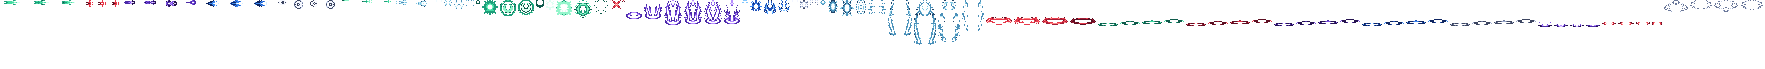
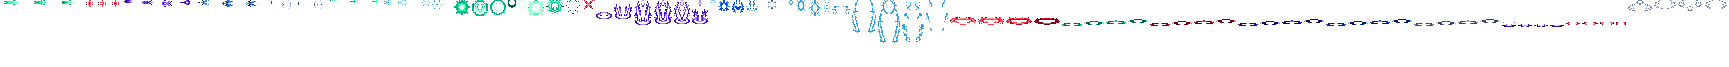
Aphelios's effects made crisper (the user: 「厄斐琉斯的特效 调的清晰点」, picked fewer specks and more contrast over a dense redraw): import_aphelios_fx.py cleans every cell before placing it - loose dim specks of 1-3 squares off, the dim rim round a light (its soft halo) off except on the rings drawn in the ramp

Changed region(s): [[0.0, 0.0, 0.9682, 0.6567], [0.937, 0.0, 0.9994, 0.1791]]

diff --git a/tools/art/import_aphelios_fx.py b/tools/art/import_aphelios_fx.py
@@ -26,6 +26,10 @@ FEET, the rest comes in by a tenth).
 The bullets stay unseen until they pass the muzzle (flight's lead ticks at the attack's projectile speed); their views
 are repeat false (build_aphelios.py), the last frame held a second. Severum's Onslaught bolts and Infernum's splash
 show the attacks' pictures under tags of their own (q_s_bolt, a_inf_s): they fly faster or start at the target.
+Every cell goes through clean() first (the user, 2026-10-20: 「厄斐琉斯的特效 调的清晰点」, picked "fewer specks, more
+contrast" over redrawing them dense): loose dim specks of 1-3 squares off, the dim rim round a light (its soft halo)
+off except on the rings drawn in the ramp's dark steps, pinholes filled, every colour's saturation x1.25 and value
+pushed apart ((v - .45) x 1.3 + .5, the brightest a touch whiter), then the pack's symmetry put back exactly.
 """
 import argparse
 import json
@@ -35,8 +39,11 @@ import re
 import shutil
 import sys
 
+import colorsys
+
 import numpy as np
 from PIL import Image
+from scipy import ndimage
 
 HERE = os.path.dirname(os.path.abspath(__file__))
 ROOT = os.path.dirname(os.path.dirname(HERE))
@@ -158,6 +165,106 @@ FX = {
 BALL = 1
 
 
+N8 = np.ones((3, 3), bool)
+
+
+def lum(c):
+    return c[..., 0] * 0.299 + c[..., 1] * 0.587 + c[..., 2] * 0.114
+
+
+def mirror_fix(c, mirror):
+    """The drawn box made exactly symmetric again (the fuller half onto the other)."""
+    al = c[..., 3] > 0
+    if not al.any():
+        return c
+    ys, xs = np.nonzero(al)
+    y0, y1, x0, x1 = ys.min(), ys.max() + 1, xs.min(), xs.max() + 1
+    t = c[y0:y1, x0:x1].copy()
+    if mirror in ("lr", "ud"):
+        ax = 1 if mirror == "lr" else 0
+        n = t.shape[ax]
+        h = n // 2
+        a = t[:, :h] if ax == 1 else t[:h]
+        b = t[:, n - h:] if ax == 1 else t[n - h:]
+        if (a[..., 3] > 0).sum() >= (b[..., 3] > 0).sum():
+            if ax == 1:
+                t[:, n - h:] = a[:, ::-1]
+            else:
+                t[n - h:] = a[::-1]
+        else:
+            if ax == 1:
+                t[:, :h] = b[:, ::-1]
+            else:
+                t[:h] = b[::-1]
+    elif mirror == "pt":
+        flat = t.reshape(-1, 4)
+        n = len(flat)
+        flat[n - n // 2:] = flat[:n // 2][::-1]
+        t = flat.reshape(t.shape)
+    out = c.copy()
+    out[y0:y1, x0:x1] = t
+    return out
+
+
+def clean(c, mirror, halo=True):
+    """Specks off, pinholes filled, colours a step crisper; symmetric as before."""
+    c = c.copy()
+    op = c[..., 3] > 0
+    if not op.any():
+        return c
+    L = lum(c[..., :3].astype(float))
+    bright = np.percentile(L[op], 80)
+    # 1. loose specks: pieces of 1-2 squares, unless they are among the brightest (a sparkle meant to be there)
+    lbl, n = ndimage.label(op, structure=N8)
+    sizes = ndimage.sum(op, lbl, range(1, n + 1))
+    peak = ndimage.maximum(L, lbl, range(1, n + 1))
+    for i in range(n):
+        if sizes[i] <= 3 and peak[i] < bright:
+            c[lbl == i + 1] = 0
+    op = c[..., 3] > 0
+    # 1b. dim fringe: the darkest squares on the drawing's rim (a soft halo that blurs a light on a dark field), and
+    # dim squares with at most one drawn neighbour (dust between the shapes)
+    V = c[..., :3].max(-1).astype(float) / 255
+    vmax = V[op].max()
+    rim = op & ~ndimage.binary_erosion(op, structure=np.ones((3, 3), bool), border_value=0)
+    nbrs = ndimage.convolve(op.astype(int), np.ones((3, 3), int), mode="constant") - op
+    lit = ndimage.binary_dilation(op & (V > 0.7 * vmax), structure=np.ones((3, 3), bool))
+    gone = rim & (V < 0.42 * vmax) & lit if halo else np.zeros_like(op)
+    gone |= op & (nbrs == 0) & (L < bright)
+    c[gone] = 0
+    op = c[..., 3] > 0
+    # 2. pinholes: an empty square with drawn squares on all four sides takes their commonest colour
+    up, dn = np.roll(op, 1, 0), np.roll(op, -1, 0)
+    lf, rt = np.roll(op, 1, 1), np.roll(op, -1, 1)
+    hole = ~op & up & dn & lf & rt
+    hole[0] = hole[-1] = False
+    hole[:, 0] = hole[:, -1] = False
+    for y, x in zip(*np.nonzero(hole)):
+        nb = [tuple(c[y + dy, x + dx]) for dy, dx in ((-1, 0), (1, 0), (0, -1), (0, 1))]
+        best = max(set(nb), key=lambda v: (nb.count(v), lum(np.array(v[:3], float))))
+        c[y, x] = best
+    op = c[..., 3] > 0
+    # 3. crisper colours: saturation and value pushed apart (each colour on its own, so the palette stays small)
+    cols = {tuple(v) for v in c[op][:, :3]}
+    m = {}
+    for col in cols:
+        h, s, v = colorsys.rgb_to_hsv(*(x / 255 for x in col))
+        s2 = min(1.0, s * 1.25)
+        v2 = min(1.0, max(0.0, (v - 0.45) * 1.3 + 0.5))
+        if v > 0.88:                              # the cores a touch whiter
+            s2 *= 0.8
+        m[col] = tuple(int(round(x * 255)) for x in colorsys.hsv_to_rgb(h, s2, v2))
+    px = c[op][:, :3]
+    c[op, :3] = np.array([m[tuple(v)] for v in px], np.uint8)
+    return mirror_fix(c, mirror)
+
+
+def halo(tag):
+    """The dim rim is a halo on a light, except on the rings drawn in the ramp's dark steps (the weapon auras, the
+    buff rings, the chakrams)."""
+    return not (tag.startswith("mw_") or tag in ("q_s_on", "g_slow", "q_s_haste", "cre"))
+
+
 def load(path):
     a = np.asarray(Image.open(path).convert("RGBA")).copy()
     a[a[..., 3] < 128] = 0
@@ -253,6 +360,7 @@ def placed(tag):
     cells = strips_of(pic)[k]
     if w:
         cells = [recolour(c, w) for c in cells]
+    cells = [clean(c, mirror, halo(tag)) for c in cells]
     x0, x1, y0, y1 = box(cells)
     H = cells[0].shape[0]
     if anchor == "front":
